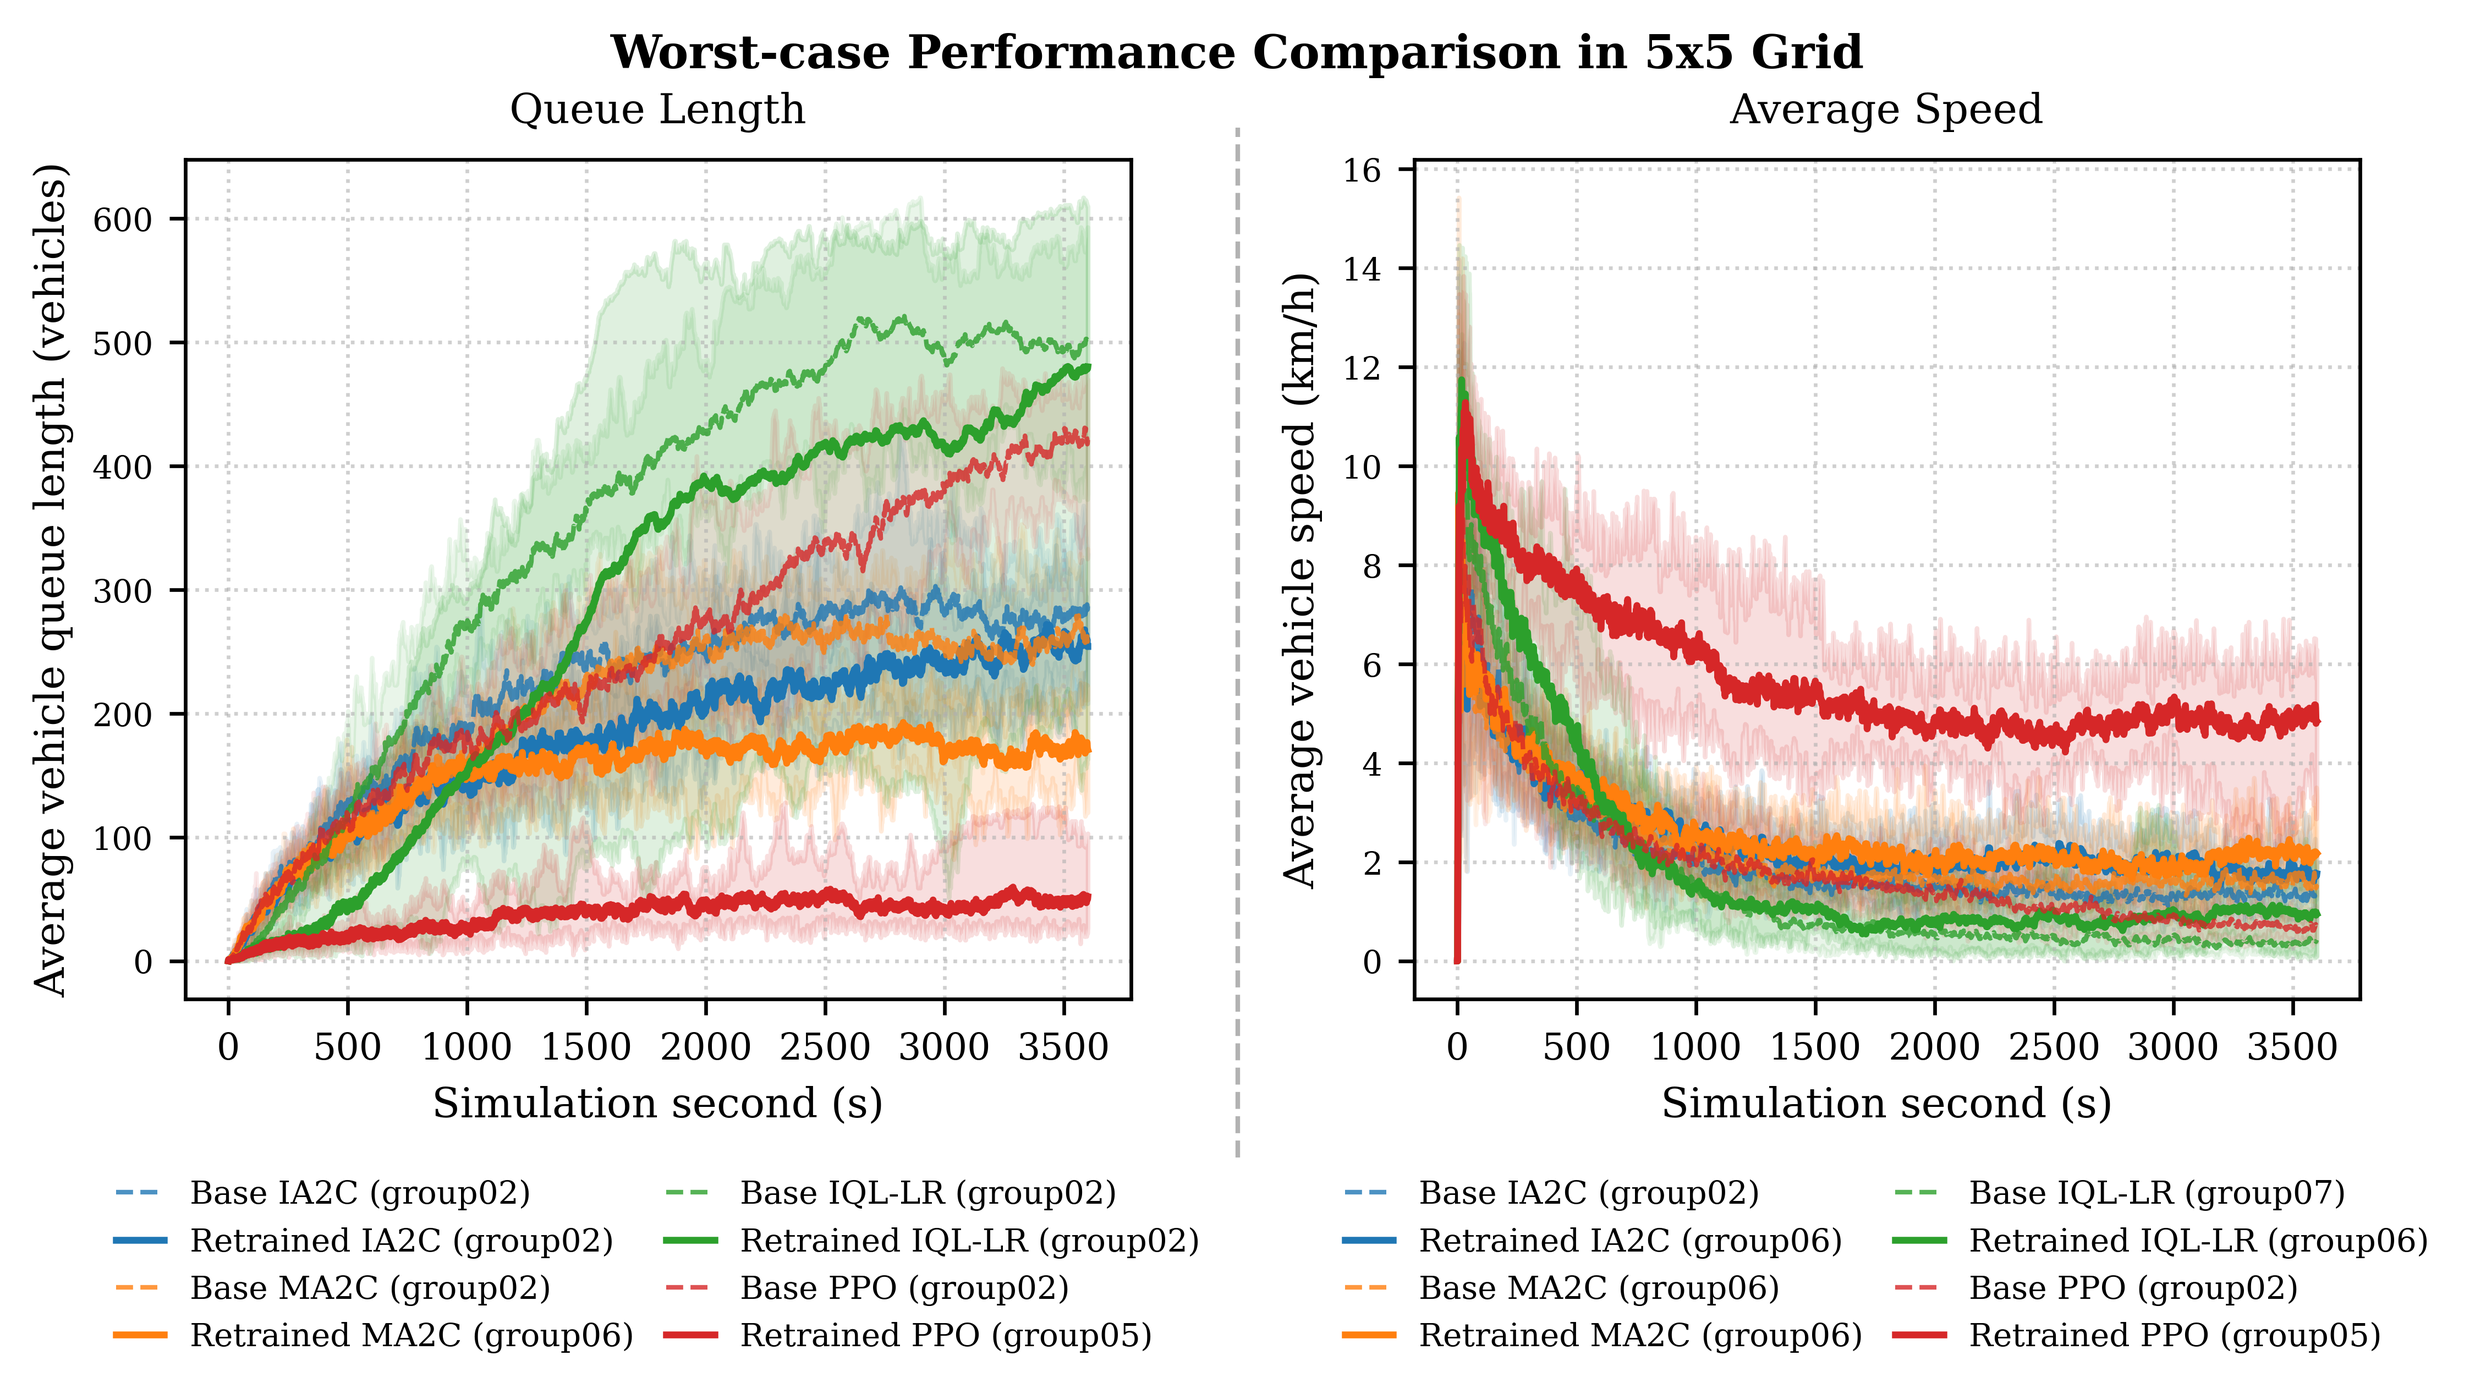
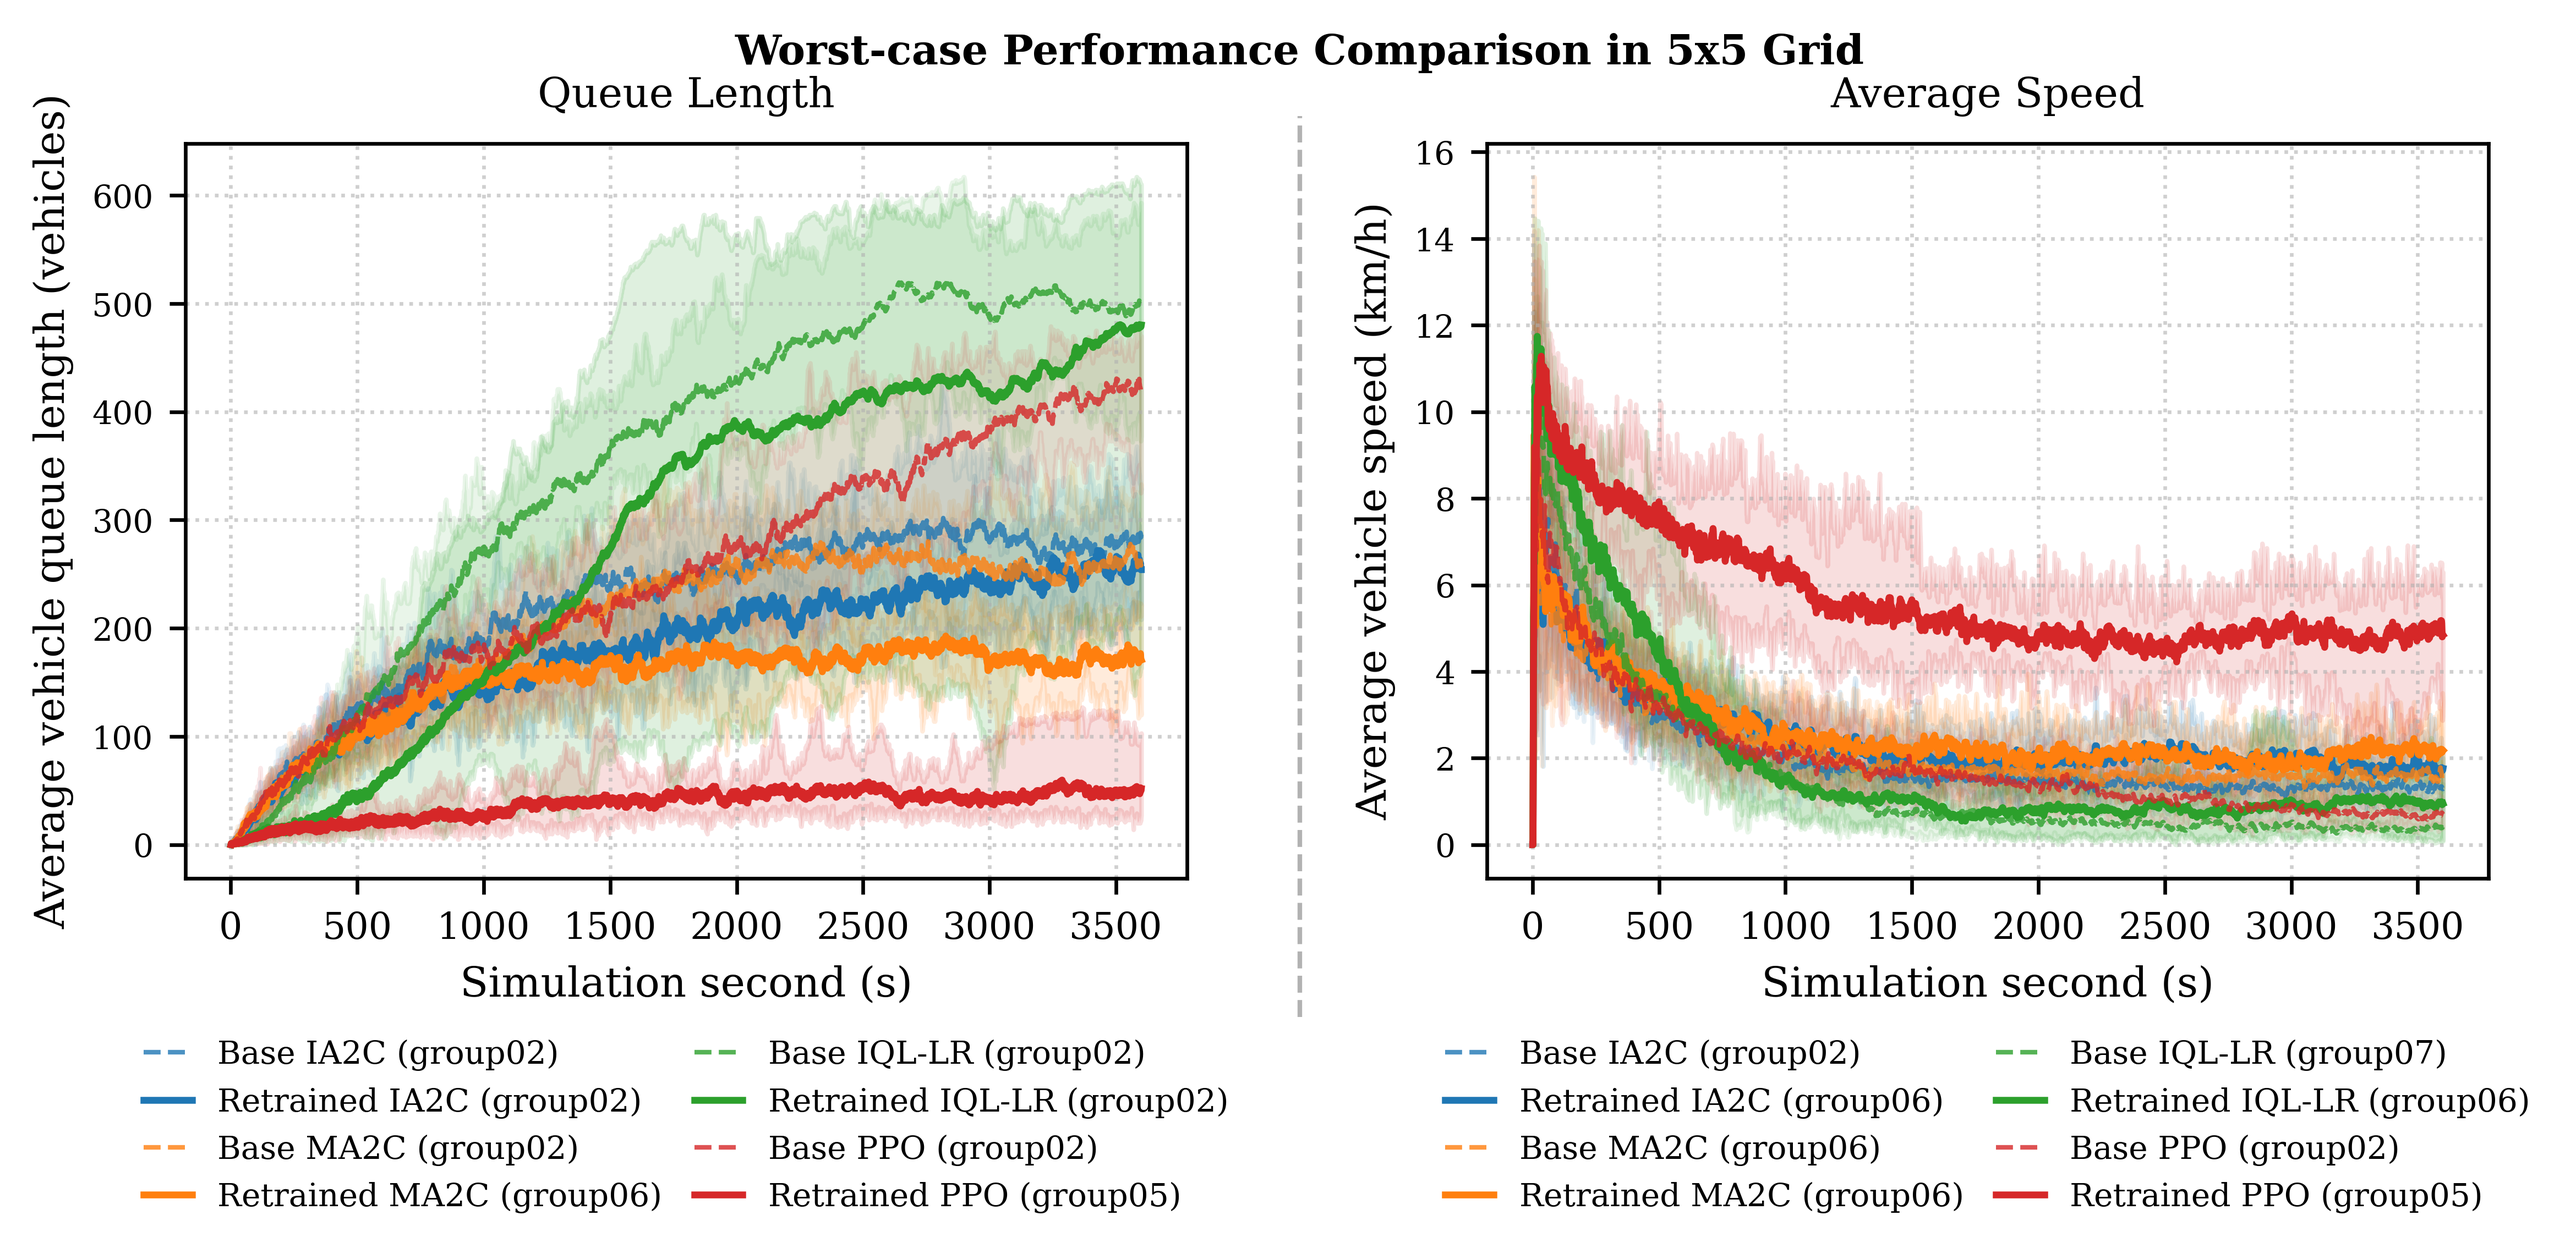
minor change for multi plot bot

diff --git a/Multi_plot.py b/Multi_plot.py
@@ -50,7 +50,7 @@ def _configure_plot_style() -> None:
         "xtick.labelsize": 8,
         "ytick.labelsize": 7,
         "legend.fontsize": 7,       # 略微调大一点，因为我们增加了图片高度
-        "figure.titlesize": 10,     # 共享大标题加大
+        "figure.titlesize": 9,     # 共享大标题加大
         "pdf.fonttype": 42,
         "ps.fonttype": 42,
     }
@@ -210,7 +210,7 @@ def main():
 
     for scenario in PAIRED_SCENARIOS:
         # 增加总高度至 4.8，为底部的多行图例留出充足空间
-        fig, (ax1, ax2) = plt.subplots(1, 2, figsize=(8.5, 4.8))
+        fig, (ax1, ax2) = plt.subplots(1, 2, figsize=(9, 4.2))
         
         # 添加共享的主标题，位置稍微靠上
         fig.suptitle(scenario["suptitle"], y=0.96, fontweight='bold')
